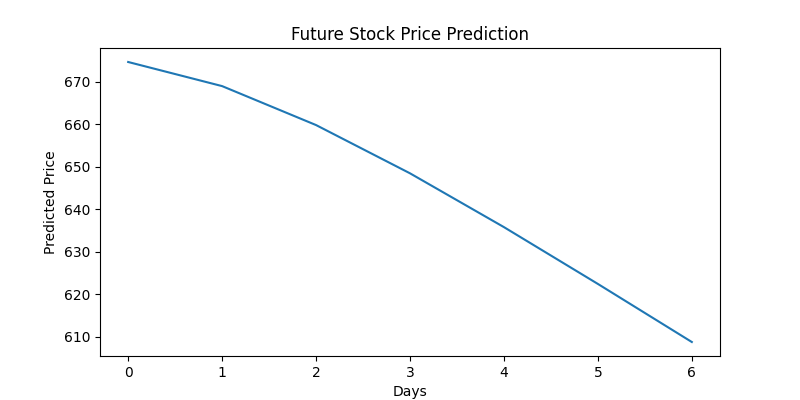
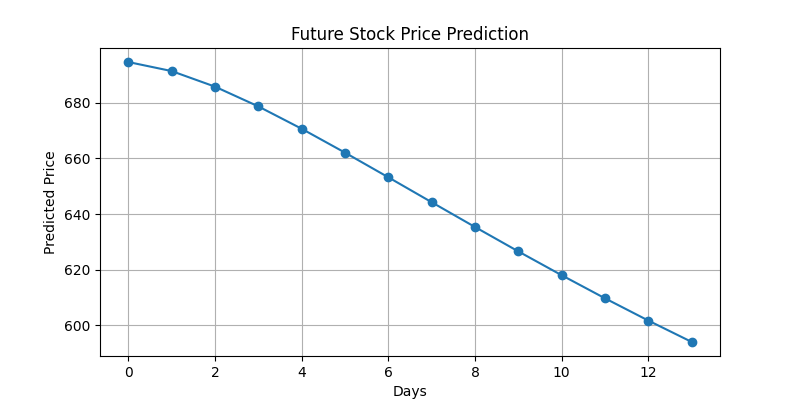
moving average changes

diff --git a/model.py b/model.py
@@ -135,8 +135,8 @@ plt.xlabel('Days')
 plt.ylabel('Price')
 plt.legend()
 
-plt.savefig('actual_vs_predicted.png')
-plt.show()
+plt.savefig('static/actual_vs_predicted.png')
+plt.close()
 
 # Moving Average Graph
 plt.figure(figsize=(10,5))
@@ -149,7 +149,7 @@ plt.xlabel('Days')
 plt.ylabel('Price')
 plt.legend()
 
-plt.savefig('moving_average.png')
-plt.show()
+plt.savefig('static/moving_average.png')
+plt.close()
 
 print("Model Training Completed Successfully")